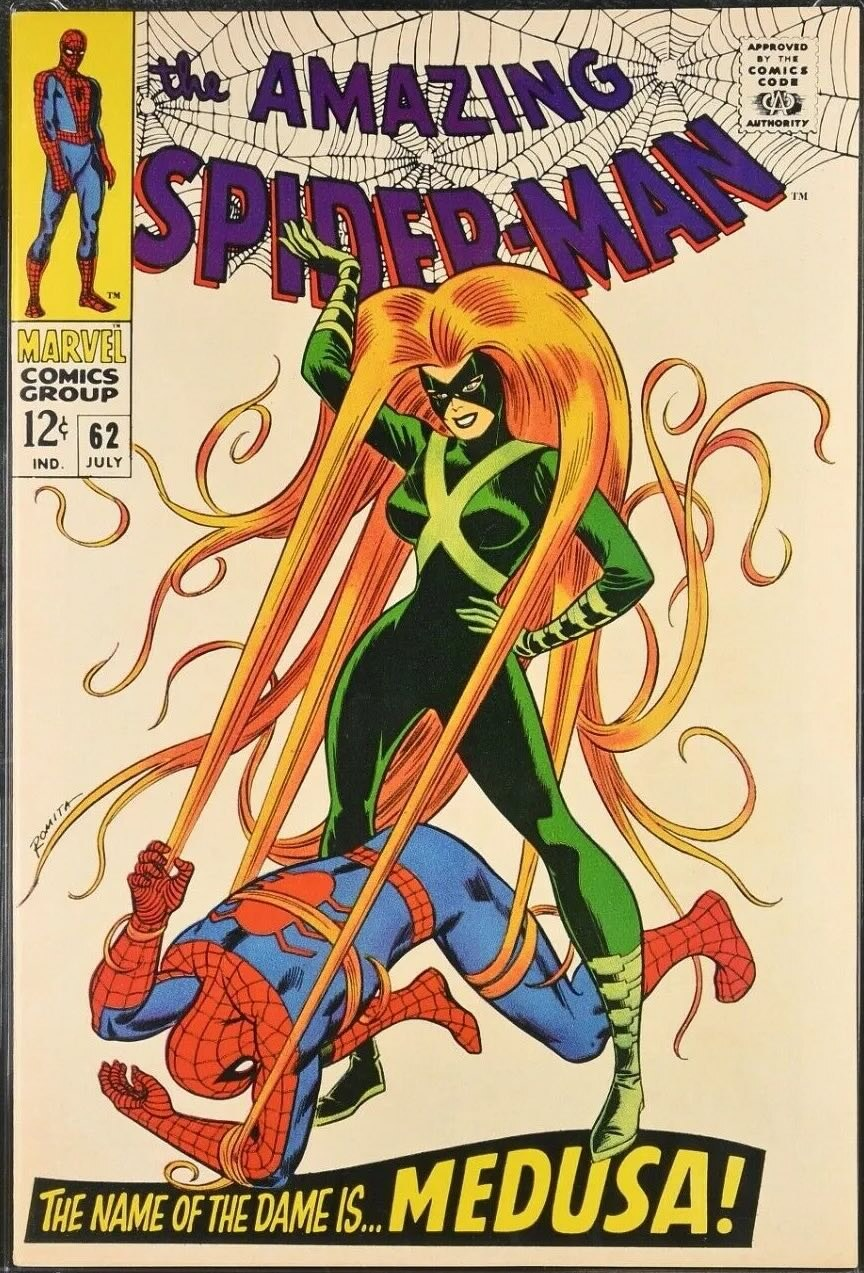
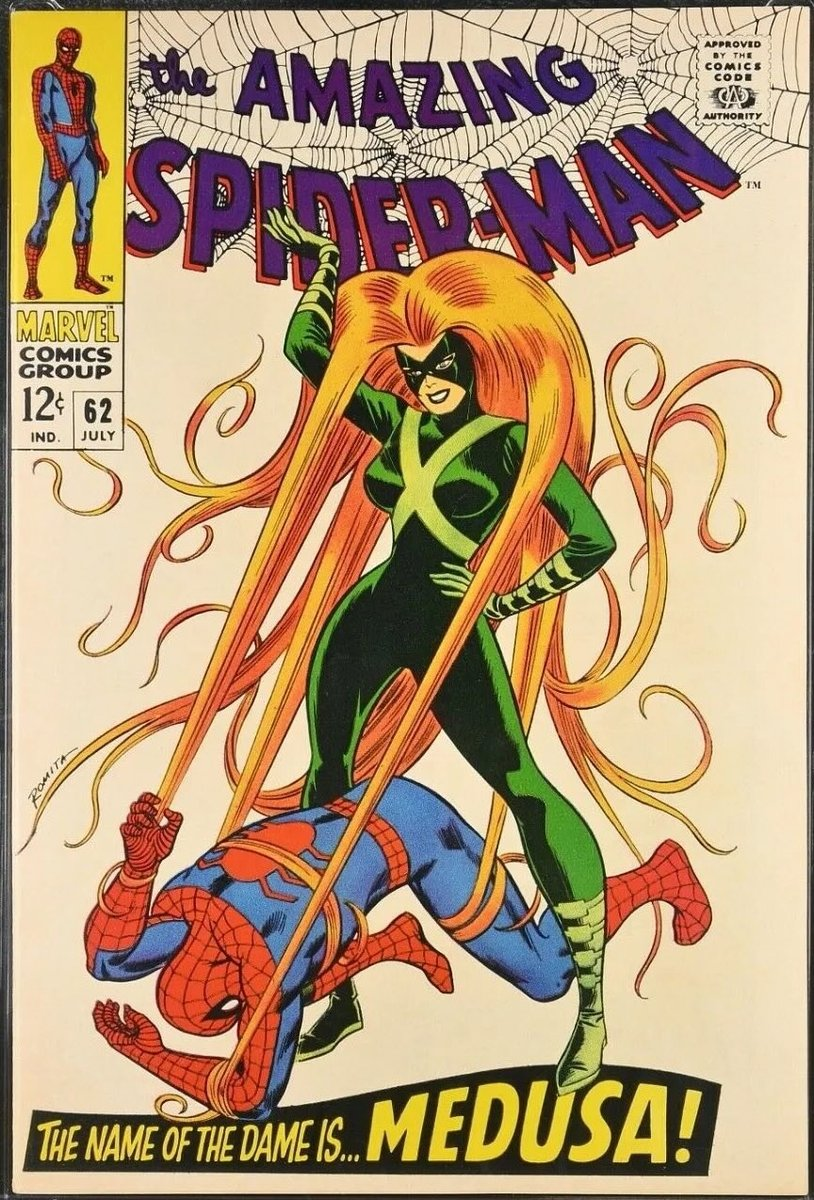
Shrinking reference cover images

diff --git a/index.html b/index.html
@@ -39,7 +39,7 @@
       var _pp = new URLSearchParams(location.search);
       if (_pp.get("payment") === "success") {
         var _cr = parseInt(_pp.get("credits") || "0", 10);
-        var _pv = ({ 5: 9.99, 20: 29.99, 100: 99.99 })[_cr] || 0;
+        var _pv = ({ 5: 10, 20: 30, 100: 100 })[_cr] || 0;
         var _sid = _pp.get("sid") || ("web-" + Date.now());
         gtag("event", "purchase", { transaction_id: _sid, value: _pv, currency: "USD",
           items: [{ item_name: "Robograder Credits", item_variant: _cr + " credits", quantity: 1, price: _pv }] });

diff --git a/optimize_images.py b/optimize_images.py
@@ -19,7 +19,7 @@ from PIL import Image
 # (glob, longest-side cap, jpeg quality, size trigger KB, png?) — a file is
 # rewritten only if longest_side > cap OR size > trigger.
 RULES = [
-    ("reference_covers/*.jpg",       1400, 85, 450, False),
+    ("reference_covers/*.jpg",       1200, 85, 450, False),
     ("assets/ghosts/*.jpg",          1400, 82, 220, False),
     ("assets/products/*.png",         320,  0, 120, True),
     ("assets/*.jpg",                 1600, 82, 160, False),
